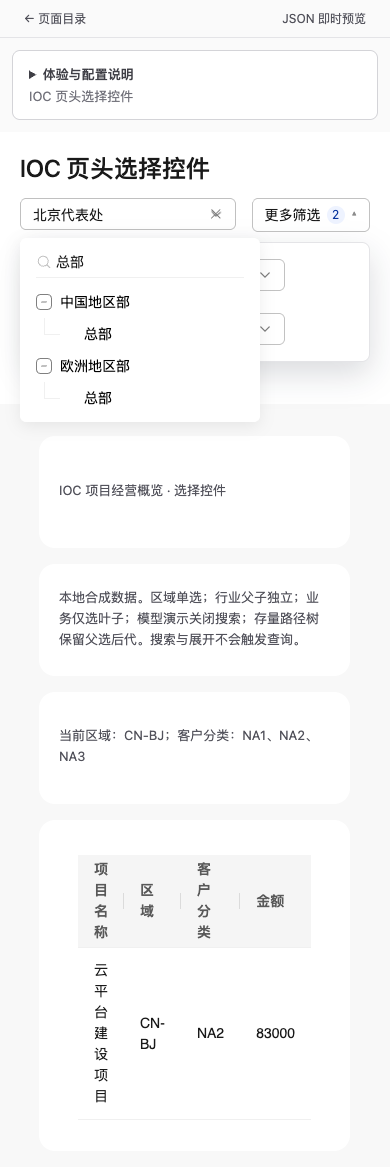
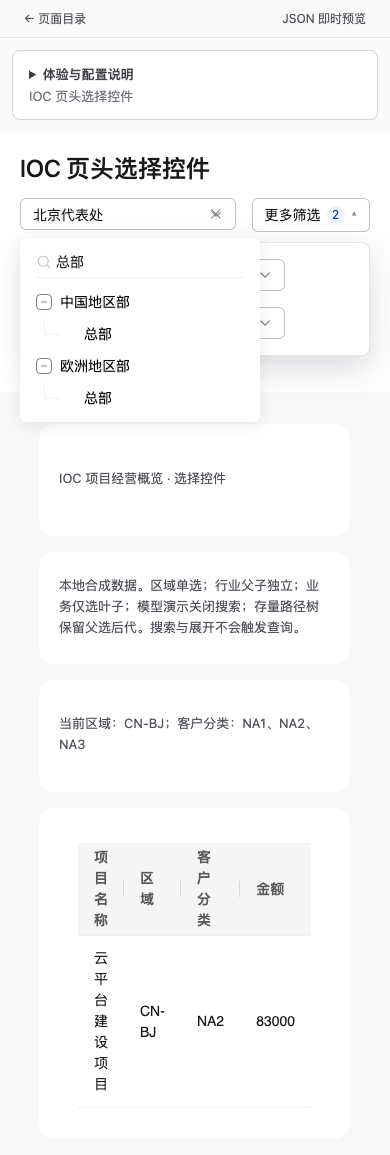
fix(ui): remove selection baseline gap in embedded headers

diff --git a/packages/ui/src/components/select/Selection.svelte b/packages/ui/src/components/select/Selection.svelte
@@ -182,7 +182,7 @@
 {/snippet}
 
 <style>
-  .mc-selection{position:relative;width:100%;min-width:0;height:var(--tv-Select-height,32px)}
+  .mc-selection{vertical-align:top;position:relative;width:100%;min-width:0;height:var(--tv-Select-height,32px)}
   .mc-selection .selection-input{display:flex;align-items:center;height:var(--tv-Select-height,32px)}
   .selection-trigger{width:100%;text-align:left;padding-right:var(--tv-size-height-md,32px);white-space:nowrap;overflow:hidden;text-overflow:ellipsis}
   .selection-trigger span{overflow:hidden;text-overflow:ellipsis;display:block}.placeholder{color:var(--tv-color-text-placeholder,#808080)}

diff --git a/docs/plan/ioc-header-selection/delivery/validation.md b/docs/plan/ioc-header-selection/delivery/validation.md
@@ -13,3 +13,5 @@
 补充验证：嵌入产物在本工作区专属4197端口运行29个IOC、导航及内容分区场景全部通过；未使用另一个工作区的4175服务。修复包含空交集显式确认、面板内重试、原生浮层状态同步和窄屏preventScroll聚焦。CI发现的公开API快照和页面ID中立性两个门禁，经24项定向测试确认通过。
 
 全量回归收口：`pnpm test`共294个测试文件通过，2534项通过、5项既有跳过。此前两个CI门禁问题已复现并修复；最终仍以最新远端提交CI结论为准。
+
+2026-10-21 高度修复：`vertical-align:top`消除选择框外层基线留白；重新构建 UI 和 embed 后，同一80px断言及59项嵌入回归通过，33项Chrome组件与5个实际页面场景通过。UI类型检查0错误0警告；契约导出一致。本机未安装Edge，完整Chrome/Edge安装式矩阵以补充提交的CI为准。因果失败日志见evidence/header-height-red.txt，修复后日志见evidence/header-height-embed.txt。

diff --git a/docs/plan/ioc-header-selection/delivery/conflicts.md b/docs/plan/ioc-header-selection/delivery/conflicts.md
@@ -32,3 +32,10 @@ Git标记410个文件冲突：398个在契约/Skill派生目录，12个在源码
 - 原生复选框和summary定位迁移为选项/树节点语义定位；稳定代码、URL、查询次数、必选和候选门禁断言保留。390px几何断言等待布局完成，不放宽边界。
 
 此后只以最新补充提交的CI作为最终结论；初次推送的CI不记作通过。
+
+
+## 兼容性 CI 的页头高度回归（2026-10-21）
+
+`30974179` 的类型、构建、单测与 authoring 作业通过；兼容性浏览器 418 项通过、2 项失败，均为 Chrome/Edge 下机会点清单页头预期 80px、实际 82px。
+
+最小复现为嵌入浏览器 `embed.spec.ts` 的机会点清单用例。原因是官方选择框 `inline-block` 的基线留白：32px 控件使包装容器达到 38px。适配层仅增加 `vertical-align:top`，保留官方 display、尺寸、颜色及页头原有 80px 断言。完整 CI 仍以随后补充提交的结论为准。
